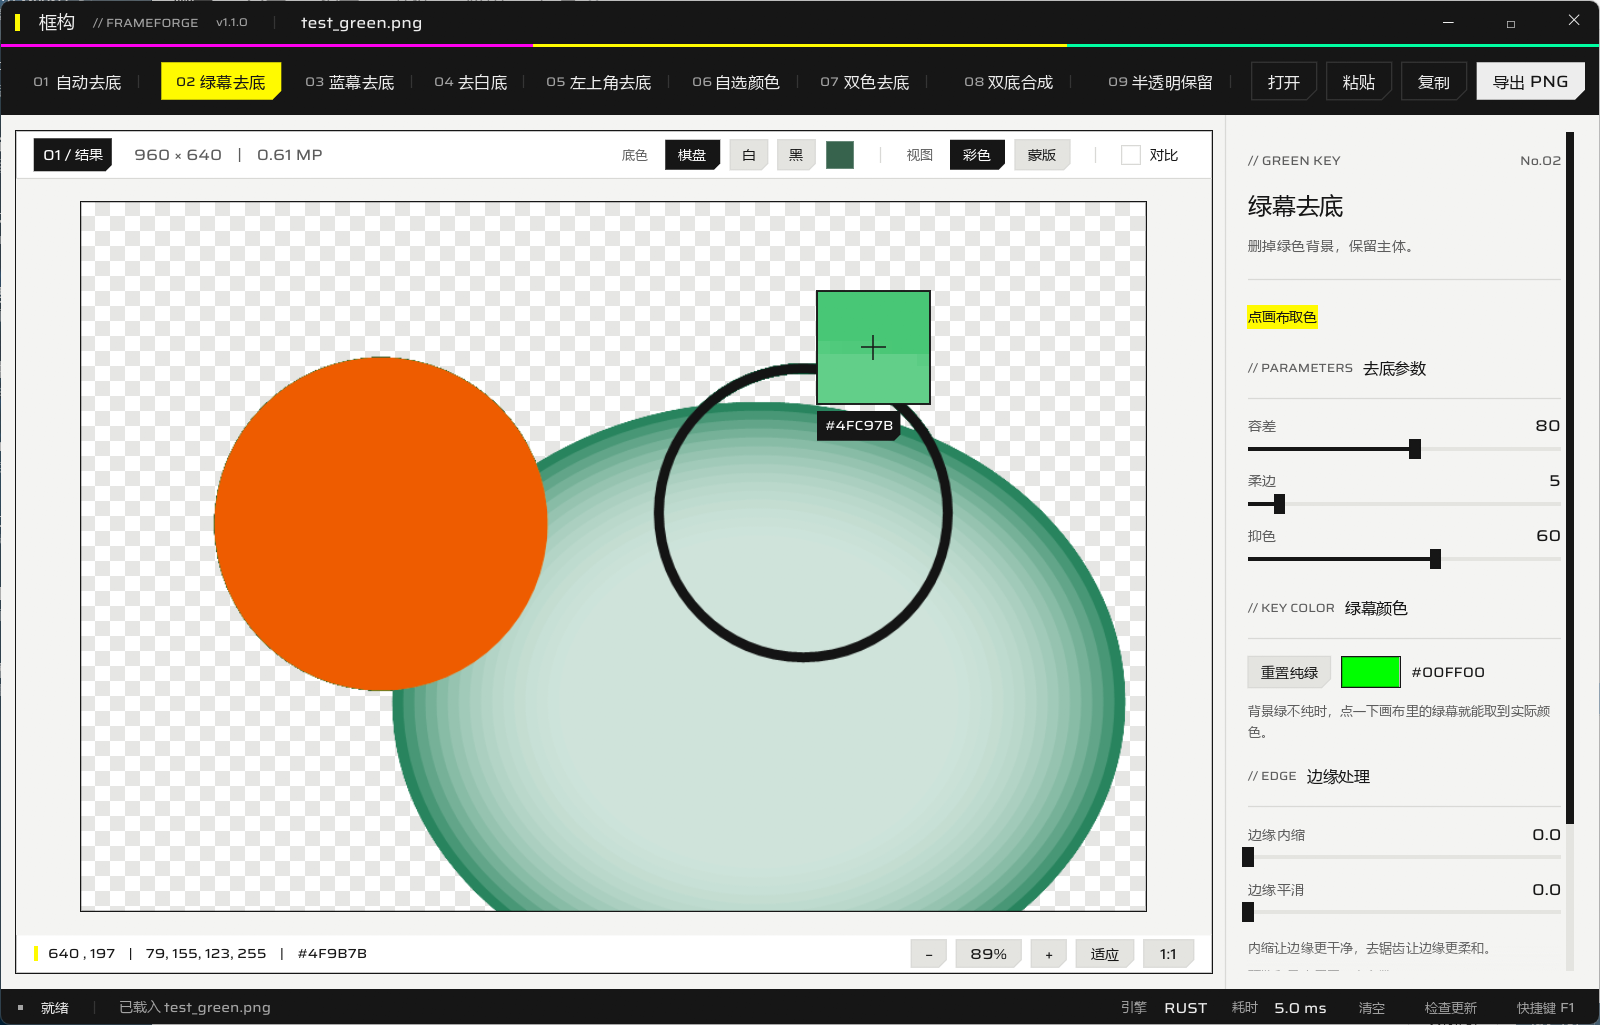
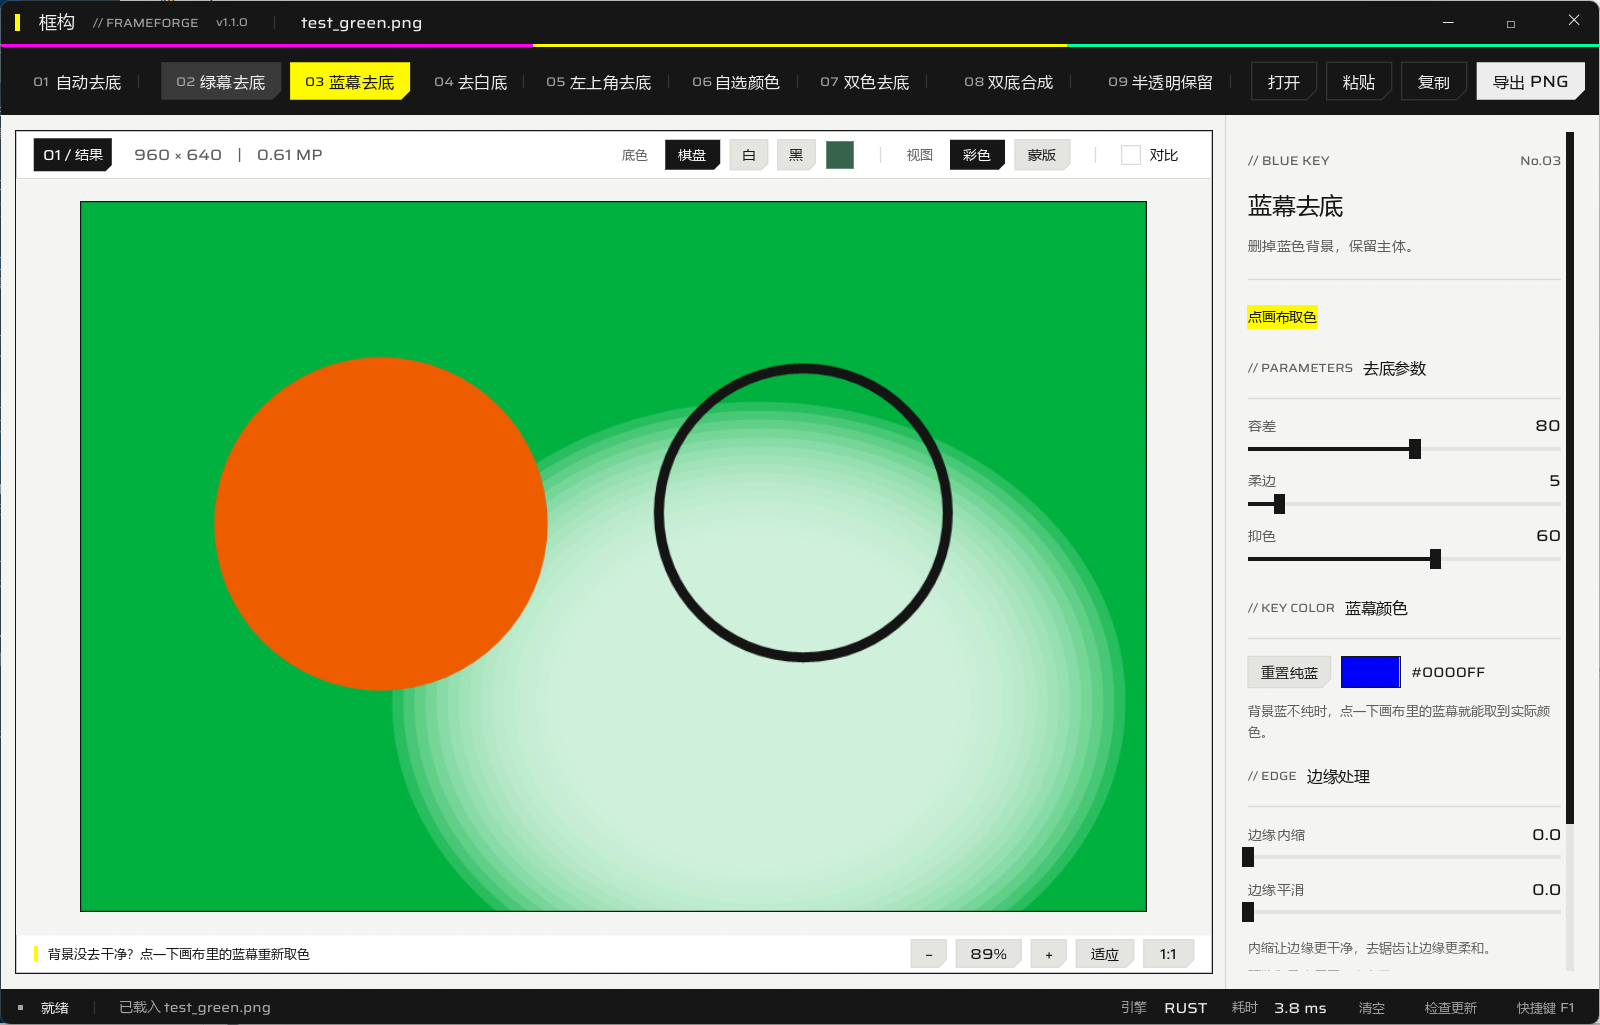
docs: 修正用例统计 + 仓库地址

diff --git a/src/update.rs b/src/update.rs
@@ -181,3 +181,28 @@ pub fn apply(new_exe: &std::path::Path) -> Result<(), String> {
         Err("仅支持 Windows 自动替换".into())
     }
 }
+
+#[cfg(test)]
+mod tests {
+    use super::*;
+
+    #[test]
+    fn version_compare() {
+        assert!(is_newer("v99.0.0"));
+        assert!(!is_newer(current_version()));
+        assert!(!is_newer("0.9.9"));
+    }
+
+    #[test]
+    #[ignore]
+    fn live_api_check() {
+        let (tx, rx) = std::sync::mpsc::channel();
+        check(tx);
+        match rx.recv_timeout(Duration::from_secs(45)) {
+            Ok(Msg::Found(i)) => println!("FOUND {} {}", i.version, i.url),
+            Ok(Msg::NoUpdate(v)) => println!("LATEST {v}"),
+            Ok(Msg::Failed(e)) => println!("FAILED {e}"),
+            _ => println!("TIMEOUT"),
+        }
+    }
+}

diff --git a/HANDOFF.md b/HANDOFF.md
@@ -79,16 +79,29 @@
 
 ## 8. 验证
 
-- `cargo test`：**28 passed / 0 failed**（新增自定义键色用例；算法代理新增底色场、渐变、暗角、投影、压边等合成真值用例）
+- `cargo test`：**29 passed / 0 failed / 3 ignored**（新增自定义键色用例；算法代理新增底色场、渐变、暗角、投影、压边等合成真值用例）
 - 截图验收（1280×820 与 940×640 两档）：常态 / 对比 / 空状态 / 窄窗 / 双底 / 自动去底 / 不纯绿底
 - 已知限制：径向暗角内部约 2% 底漏；双色底返回 None（提示改色键/手动取色）；±20 级噪声下仍有 5–13% 底漏
 
-## 9. 构建与清理
+## 9. 仓库与自动更新
+
+- 源码仓库：**https://github.com/118coder/kuanggou**（公开，只放源码 + 文档 + 构建脚本，二进制走 Releases）
+- 发行：tag `v1.1.0`，资产固定命名 `kuanggou.exe`（`build.ps1` 生成的 `dist/kuanggou.exe`）
+- 推送方式：`github.com:443` 直连被墙，改用 **GitHub Git Data API**（blobs → tree → commit → ref）推送；发行包用 uploads.github.com 上传
+- 应用内自动更新（`src/update.rs`）：
+  - 启动时后台查 `releases/latest`（ureq + rustls，不阻塞 UI）；有新版 → 状态栏黄色「新版本 vX.Y.Z」
+  - 点开弹窗看说明 →「下载并安装」→ 下载到 `%TEMP%\kuanggou_update` → 校验大小与 `MZ` 头 → 写批处理，退出后备份旧 exe、覆盖、重启；失败回滚
+  - 「以后再说」/「忽略此版本」（忽略记在持久化里，同版本不再提示）
+  - 不强制、不后台静默安装；手动「检查更新」在状态栏
+- 已知：本机 `github.com` 页面直连不稳定，但 `api.github.com` 与 releases 下载均可用
+
+## 10. 构建与清理
 
 ```powershell
 cargo build --release            # 约 1m40s
 copy target\release\cutout_tool.exe 框构.exe
 ```
 
-交付后 `target/`、`target-algo/`、`tools/` 下的截图与测试图已删；重建需重新 `cargo build --release`。
+交付后 `target/`、`target-algo/` 已 `cargo clean`；重建需 `cargo build --release`（约 2 分钟，含依赖）。
+`build.ps1` 一步生成 `dist\kuanggou.exe` 与根目录 `框构.exe`。
 界面源码：`src/main.rs`（约 3400 行）· 算法与测试：`src/algo.rs`（约 2700 行）· 算法说明：`tools/algo-notes.md`。
